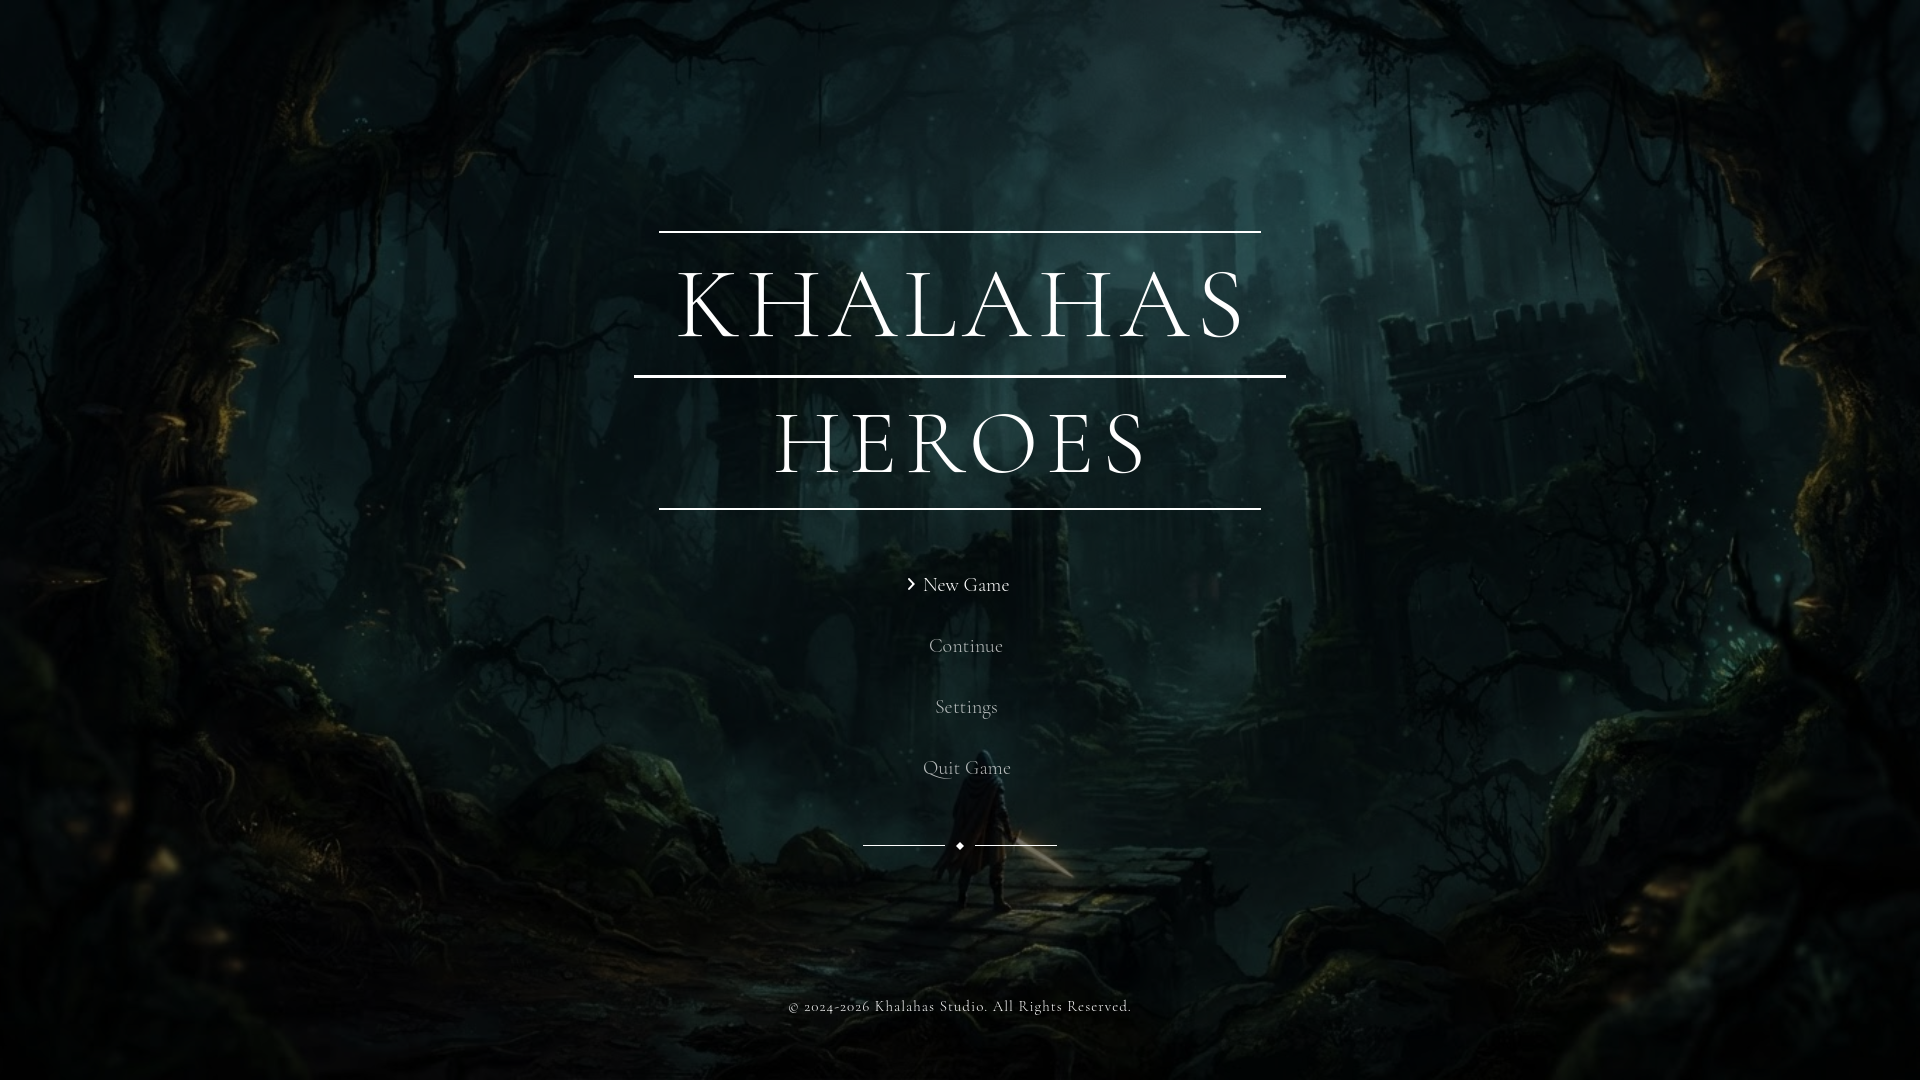
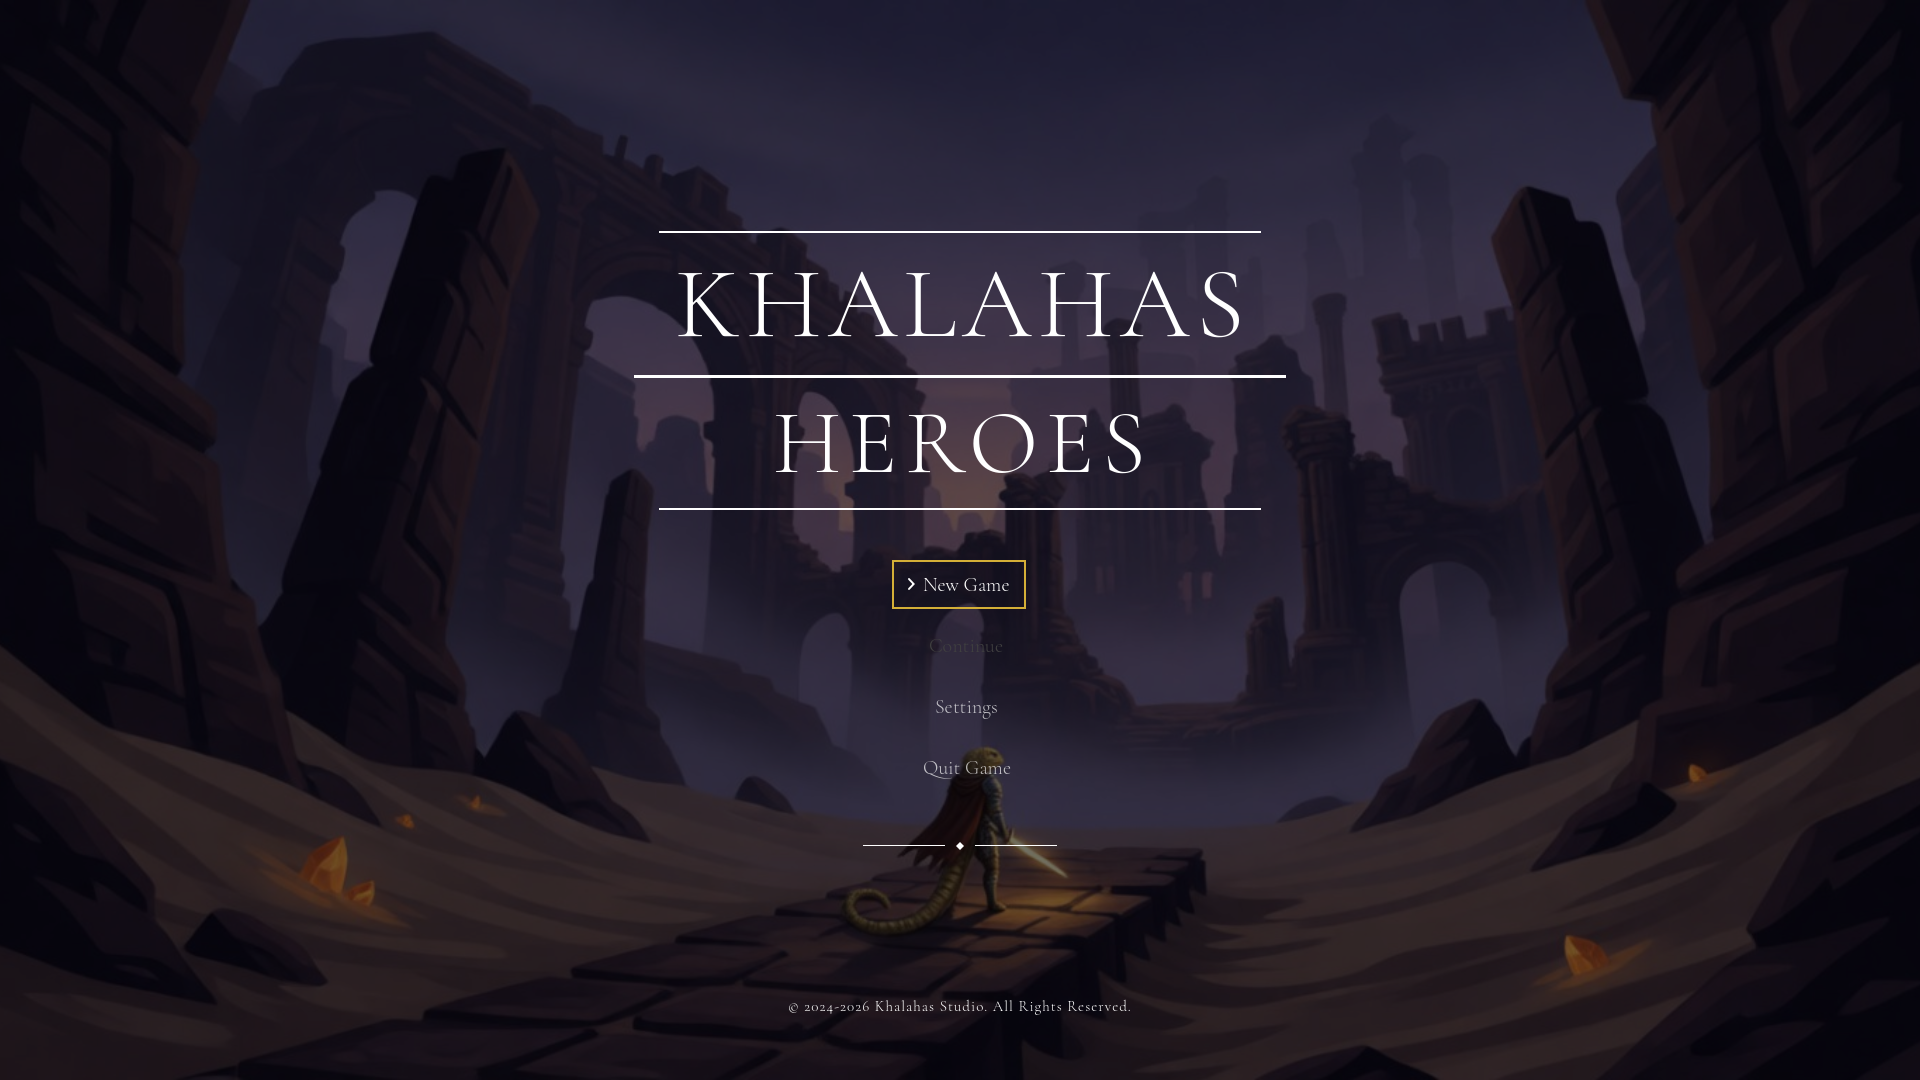
A1 main menu background: desert and a lizardfolk paladin instead of the forest and the human (Sapega)
Qwen-Image-Edit-2511 edit of the original (same composition: cliffs at the edges, ruined arches and
towers, the small hero with the glowing sword on the stone path), candidate C2 of six: the hero's
sand-yellow lizard, steel plate, brown-red cloak. Menu captures refreshed; before/after sheet
design/shots/a1_menu_shockwave_climb.png (menu, boss shockwave, Climb). A1 done in the asset plan.

Claude-Session: https://claude.ai/code/session_01A2gnDWaoeJGbj3GPH4dnCF

diff --git a/design/asset_verdicts_2026-10-27.md b/design/asset_verdicts_2026-10-27.md
@@ -18,7 +18,7 @@ Each batch is one ComfyUI run (< 1 h, own sheet), in this order. Mark ✅ with t
 
 | # | Batch | Items | Status |
 |---|---|---|---|
-| A1 | Sapega's noted fixes | main menu background: the same beautiful art, but a desert instead of the forest and a lizard (ящур) instead of the human (`UI/main_menu_background.jpg`); boss shockwave more expressive (`FX/Bosses/shockwave.png`); hero Climb with alternating arms and legs (`Sprites/Player/Climb/`) | ⬜ |
+| A1 | Sapega's noted fixes | main menu background: the same beautiful art, but a desert instead of the forest and a lizard (ящур) instead of the human (`UI/main_menu_background.jpg`); boss shockwave more expressive (`FX/Bosses/shockwave.png`); hero Climb with alternating arms and legs (`Sprites/Player/Climb/`) | ✅ Climb `4711b42f`, shockwave `999a1a1b`, menu (candidate C2: the hero's sand-yellow lizard, painterly-prompted Qwen-Image-Edit of the original) — commit below; sheet `design/shots/a1_menu_shockwave_climb.png`, waits for Sapega's look |
 | A2 | ~~NPCs → chibi~~ | cancelled (D816). Left from the notes: the merchant becomes **an older, cunning rat-folk** (normal proportions). NPC size (B188, 96 art) stays open until Sapega asks for the redraw | ⏸ |
 | A4 | Alchemist (fix) | the alchemist's normal sheet, fix without a note (own call) | ⬜ |
 | A5 | Road planes redraw | MountainPath `gen_far`, `gen_waymarker`; StreamGorge `gen_mid`, `gen_plume`; ScreeSlide `gen_scree`, MountainPath `gen_plume` (fix); the Rock Ledges redo (cliff like the gorge walls, a wider plateau with a gate/breach, 3–4 burnt houses at the right size, D796) | ⬜ |

diff --git a/SampleProject/Assets/UI/README.md b/SampleProject/Assets/UI/README.md
@@ -1,0 +1,5 @@
+# UI art
+
+`main_menu_background.jpg` (1376×768) — AI-generated (Steam disclosure): Qwen-Image-Edit-2511 (Apache 2.0) edit of the
+former forest menu art into the game's desert with a lizardfolk paladin in Kusakam's colours (A1, 2026-10-27, Sapega:
+«такий самий красивий арт, тільки … пустеля, … ящур»); candidate C2 of six, `design/shots/a1_menu_shockwave_climb.png`.
